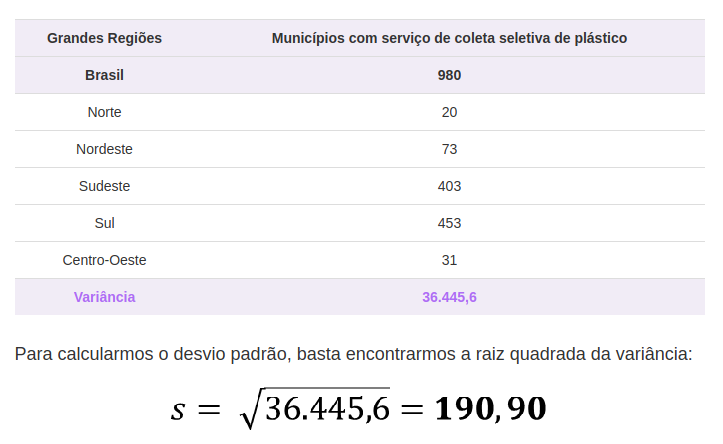
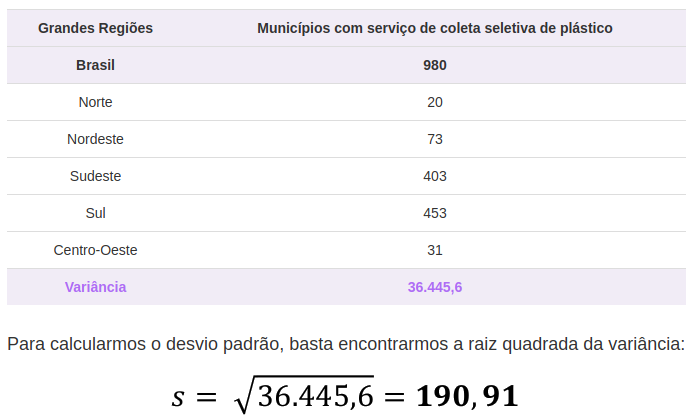
[Objeto 3] Correções e arrendodamentos

diff --git a/Projeto/Objeto 3/assets/parts/questao-11.html b/Projeto/Objeto 3/assets/parts/questao-11.html
@@ -114,7 +114,7 @@
 
 					<h4><spanc class='tab'/> > <spanc class='tab'/></h4>
 
-					<h4>Desvio padrão: S = &#8730;36.160,24 = 190,15</h4>
+					<h4>Desvio padrão: S = &#8730;36.160,24 = 190,16</h4>
 
 				</div>
 			</div>
@@ -380,7 +380,7 @@ function ajuda() {
 	dialogQuestao11Ajuda.dialog("open");
 }
 
-let valorCorretoA = 190.15;
+let valorCorretoA = 190.16;
 let valorCorretoB = 195.4;
 let valorCorretoC = 0.97;
 let valorCorretoD = 97;

diff --git a/Projeto/Objeto 3/assets/parts/questao-9.html b/Projeto/Objeto 3/assets/parts/questao-9.html
@@ -690,8 +690,8 @@ let inputQuestao9MaiorC = document.querySelector("#input-maior-c");
 
 let valorCorretoQuestao9VarianciaA = 0.24;
 let valorCorretoQuestao9VarianciaB = 67.04;
-let valorCorretoQuestao9DesvioA = 0.48;
-let valorCorretoQuestao9DesvioB = 8.18;
+let valorCorretoQuestao9DesvioA = 0.49;
+let valorCorretoQuestao9DesvioB = 8.19;
 
 let valorQuestao9MenorA = -0.4;
 let valorQuestao9MenorB = 0.36;

diff --git a/Projeto/Objeto 3/assets/parts/questao-8.html b/Projeto/Objeto 3/assets/parts/questao-8.html
@@ -235,7 +235,7 @@ let campoQuestao6BDesvioPadrao = document.querySelector("#campo-desvio-padrao-b"
 let campoTotal = document.querySelector(".valor-total");
 
 let valorQuestao6ADesvioPadrao = 32065.2;
-let valorQuestao6BDesvioPadrao = 179.06;
+let valorQuestao6BDesvioPadrao = 179.07;
 
 document.querySelector('#auto-completar').addEventListener('click', function (evt) {
 	if (evt.detail === 3) {

diff --git a/Projeto/Objeto 3/assets/parts/questao-6.html b/Projeto/Objeto 3/assets/parts/questao-6.html
@@ -226,7 +226,7 @@ function ajuda() {
 let inputQuestao6DesvioPadrao = document.querySelector("#input-desvio-padrao");
 let campoQuestao6DesvioPadrao = document.querySelector("#campo-desvio-padrao");
 
-let valorQuestao6DesvioPadrao = 190.15;
+let valorQuestao6DesvioPadrao = 190.16;
 
 document.querySelector('#auto-completar').addEventListener('click', function (evt) {
 	if (evt.detail === 3) {

diff --git a/Projeto/Objeto 3/assets/parts/coeficiente-variacao.html b/Projeto/Objeto 3/assets/parts/coeficiente-variacao.html
@@ -61,7 +61,7 @@
 				</tr>
 				<tr class="total">
 					<td>Desvio Padrão (S)</td>
-					<td>√36.445,6 = 190,9</td>
+					<td>√36.445,6 = 190,91</td>
 				</tr>
 			</table>
 		</div>
@@ -102,7 +102,7 @@
 				</tr>
 				<tr class="total">
 					<td>Desvio Padrão (S)</td>
-					<td>√32.065,2 = 179,06</td>
+					<td>√32.065,2 = 179,07</td>
 				</tr>
 			</table>
 		</div>
